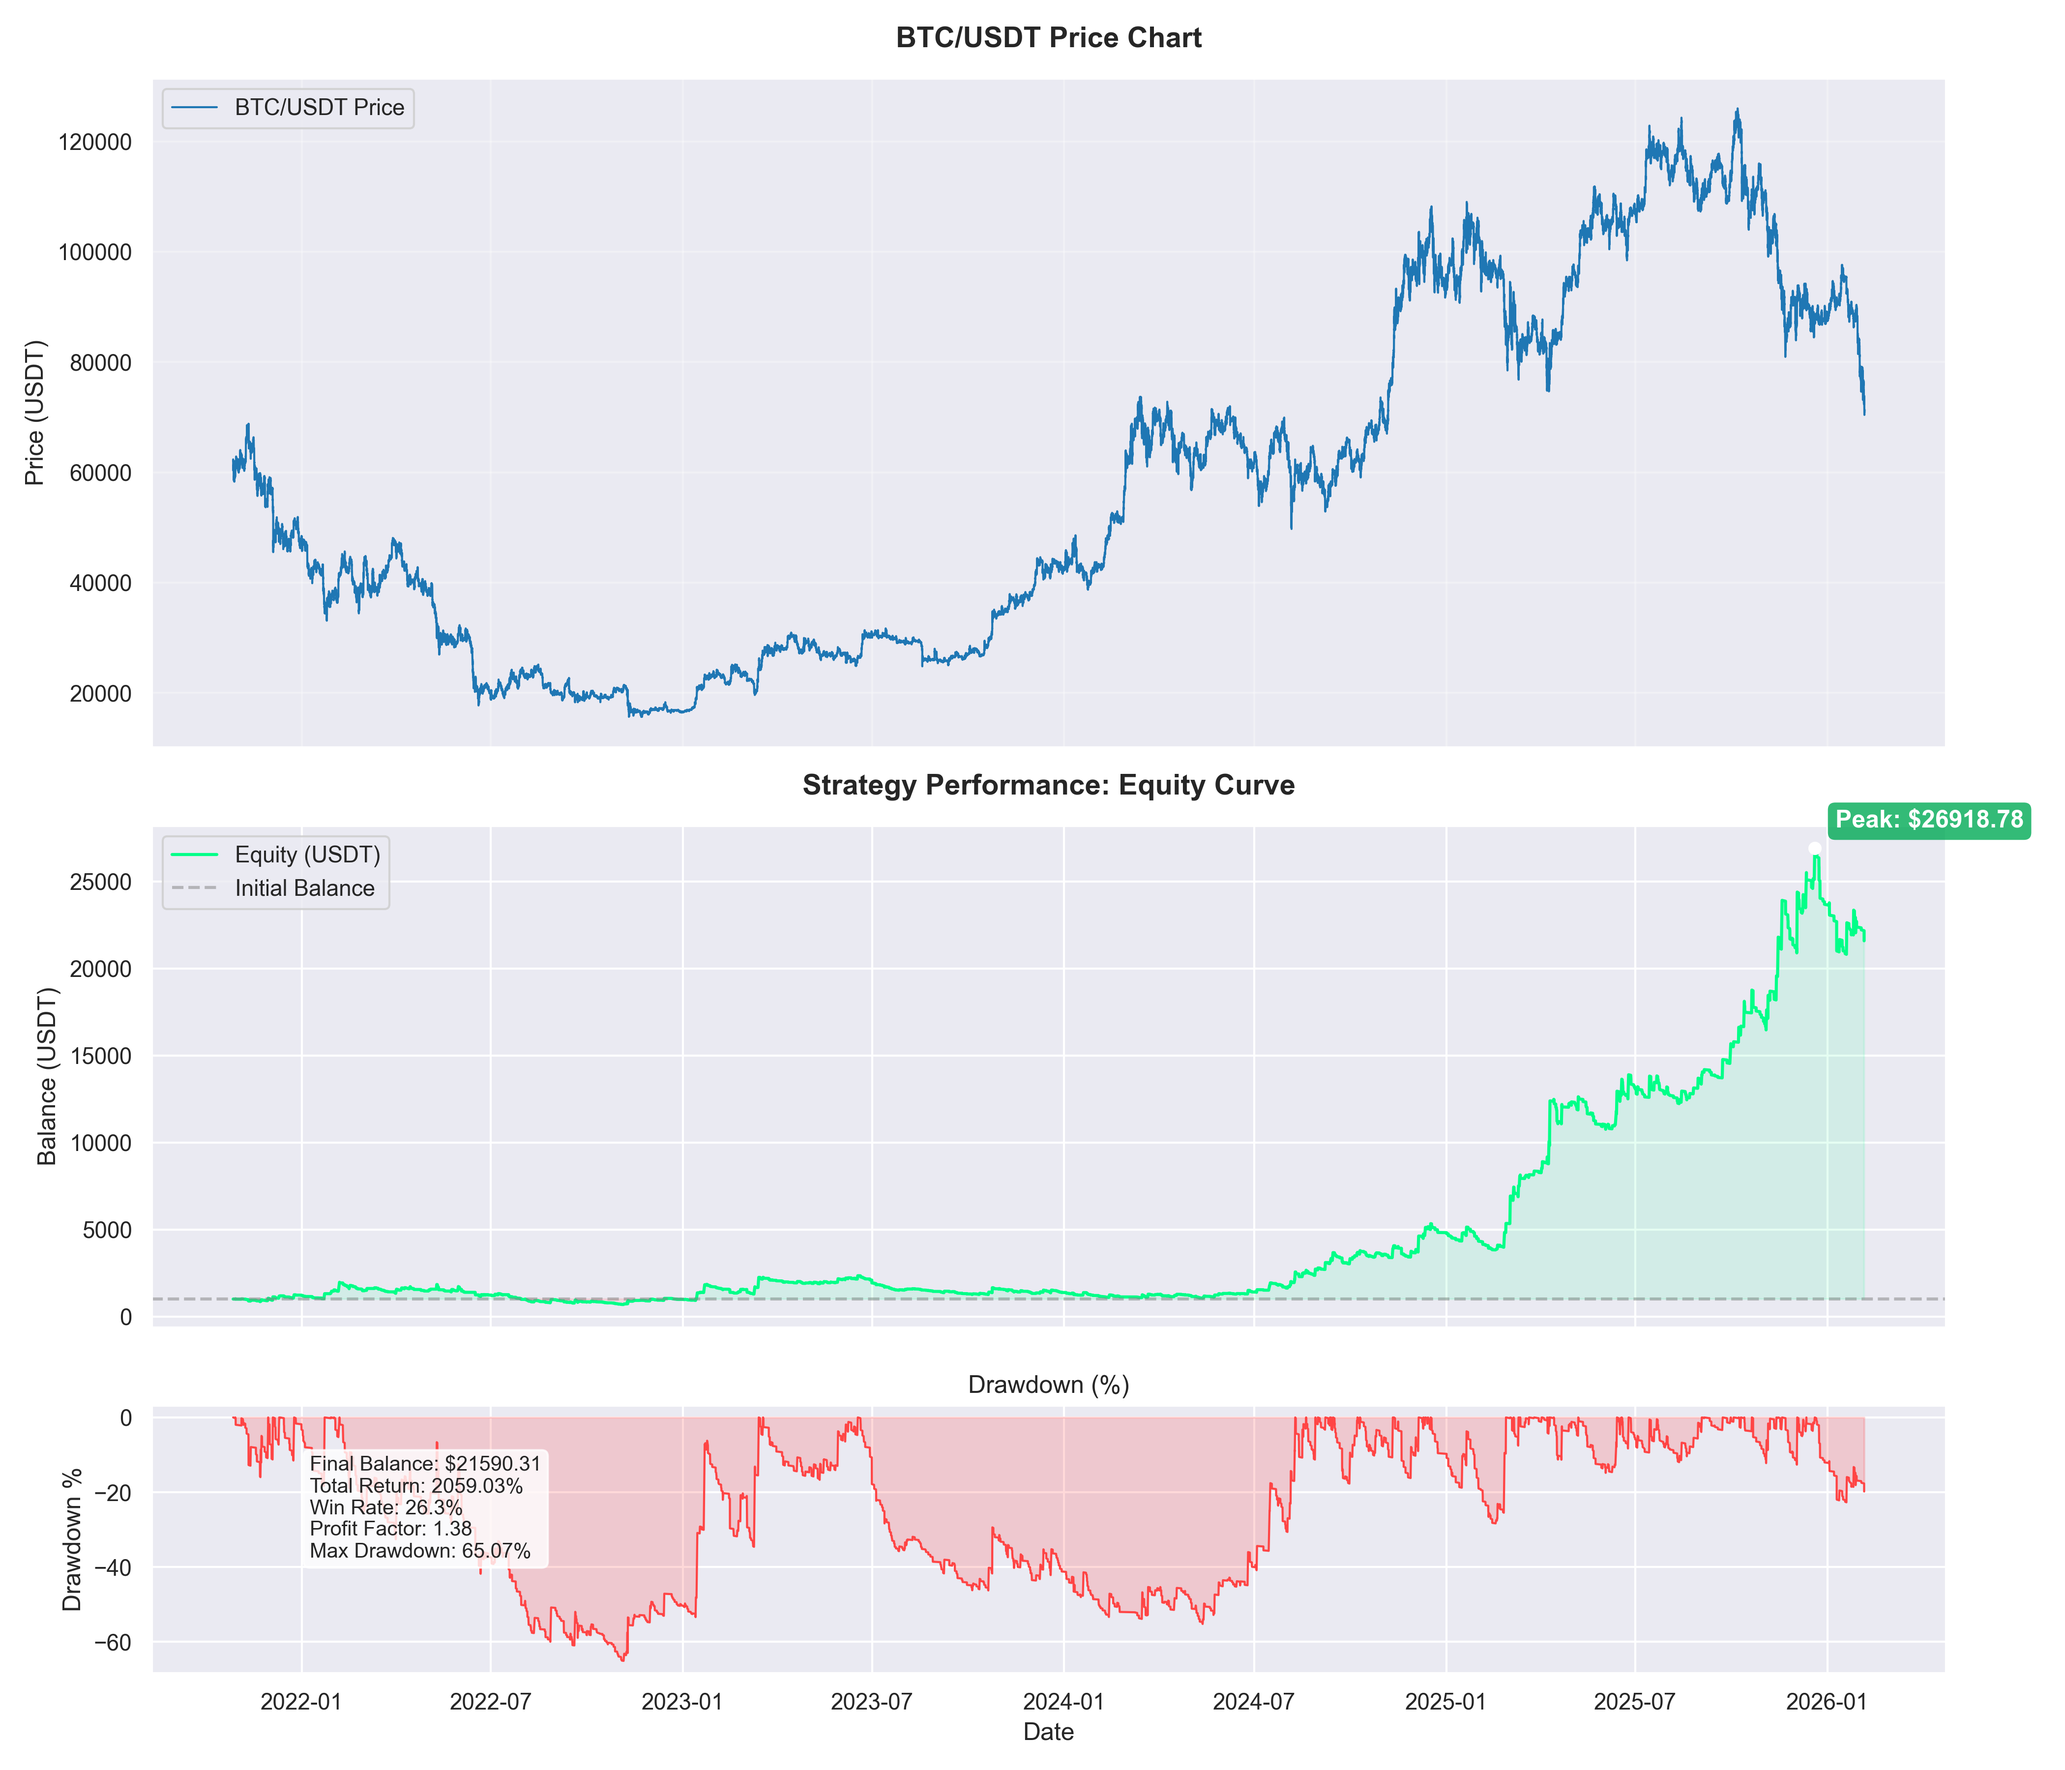
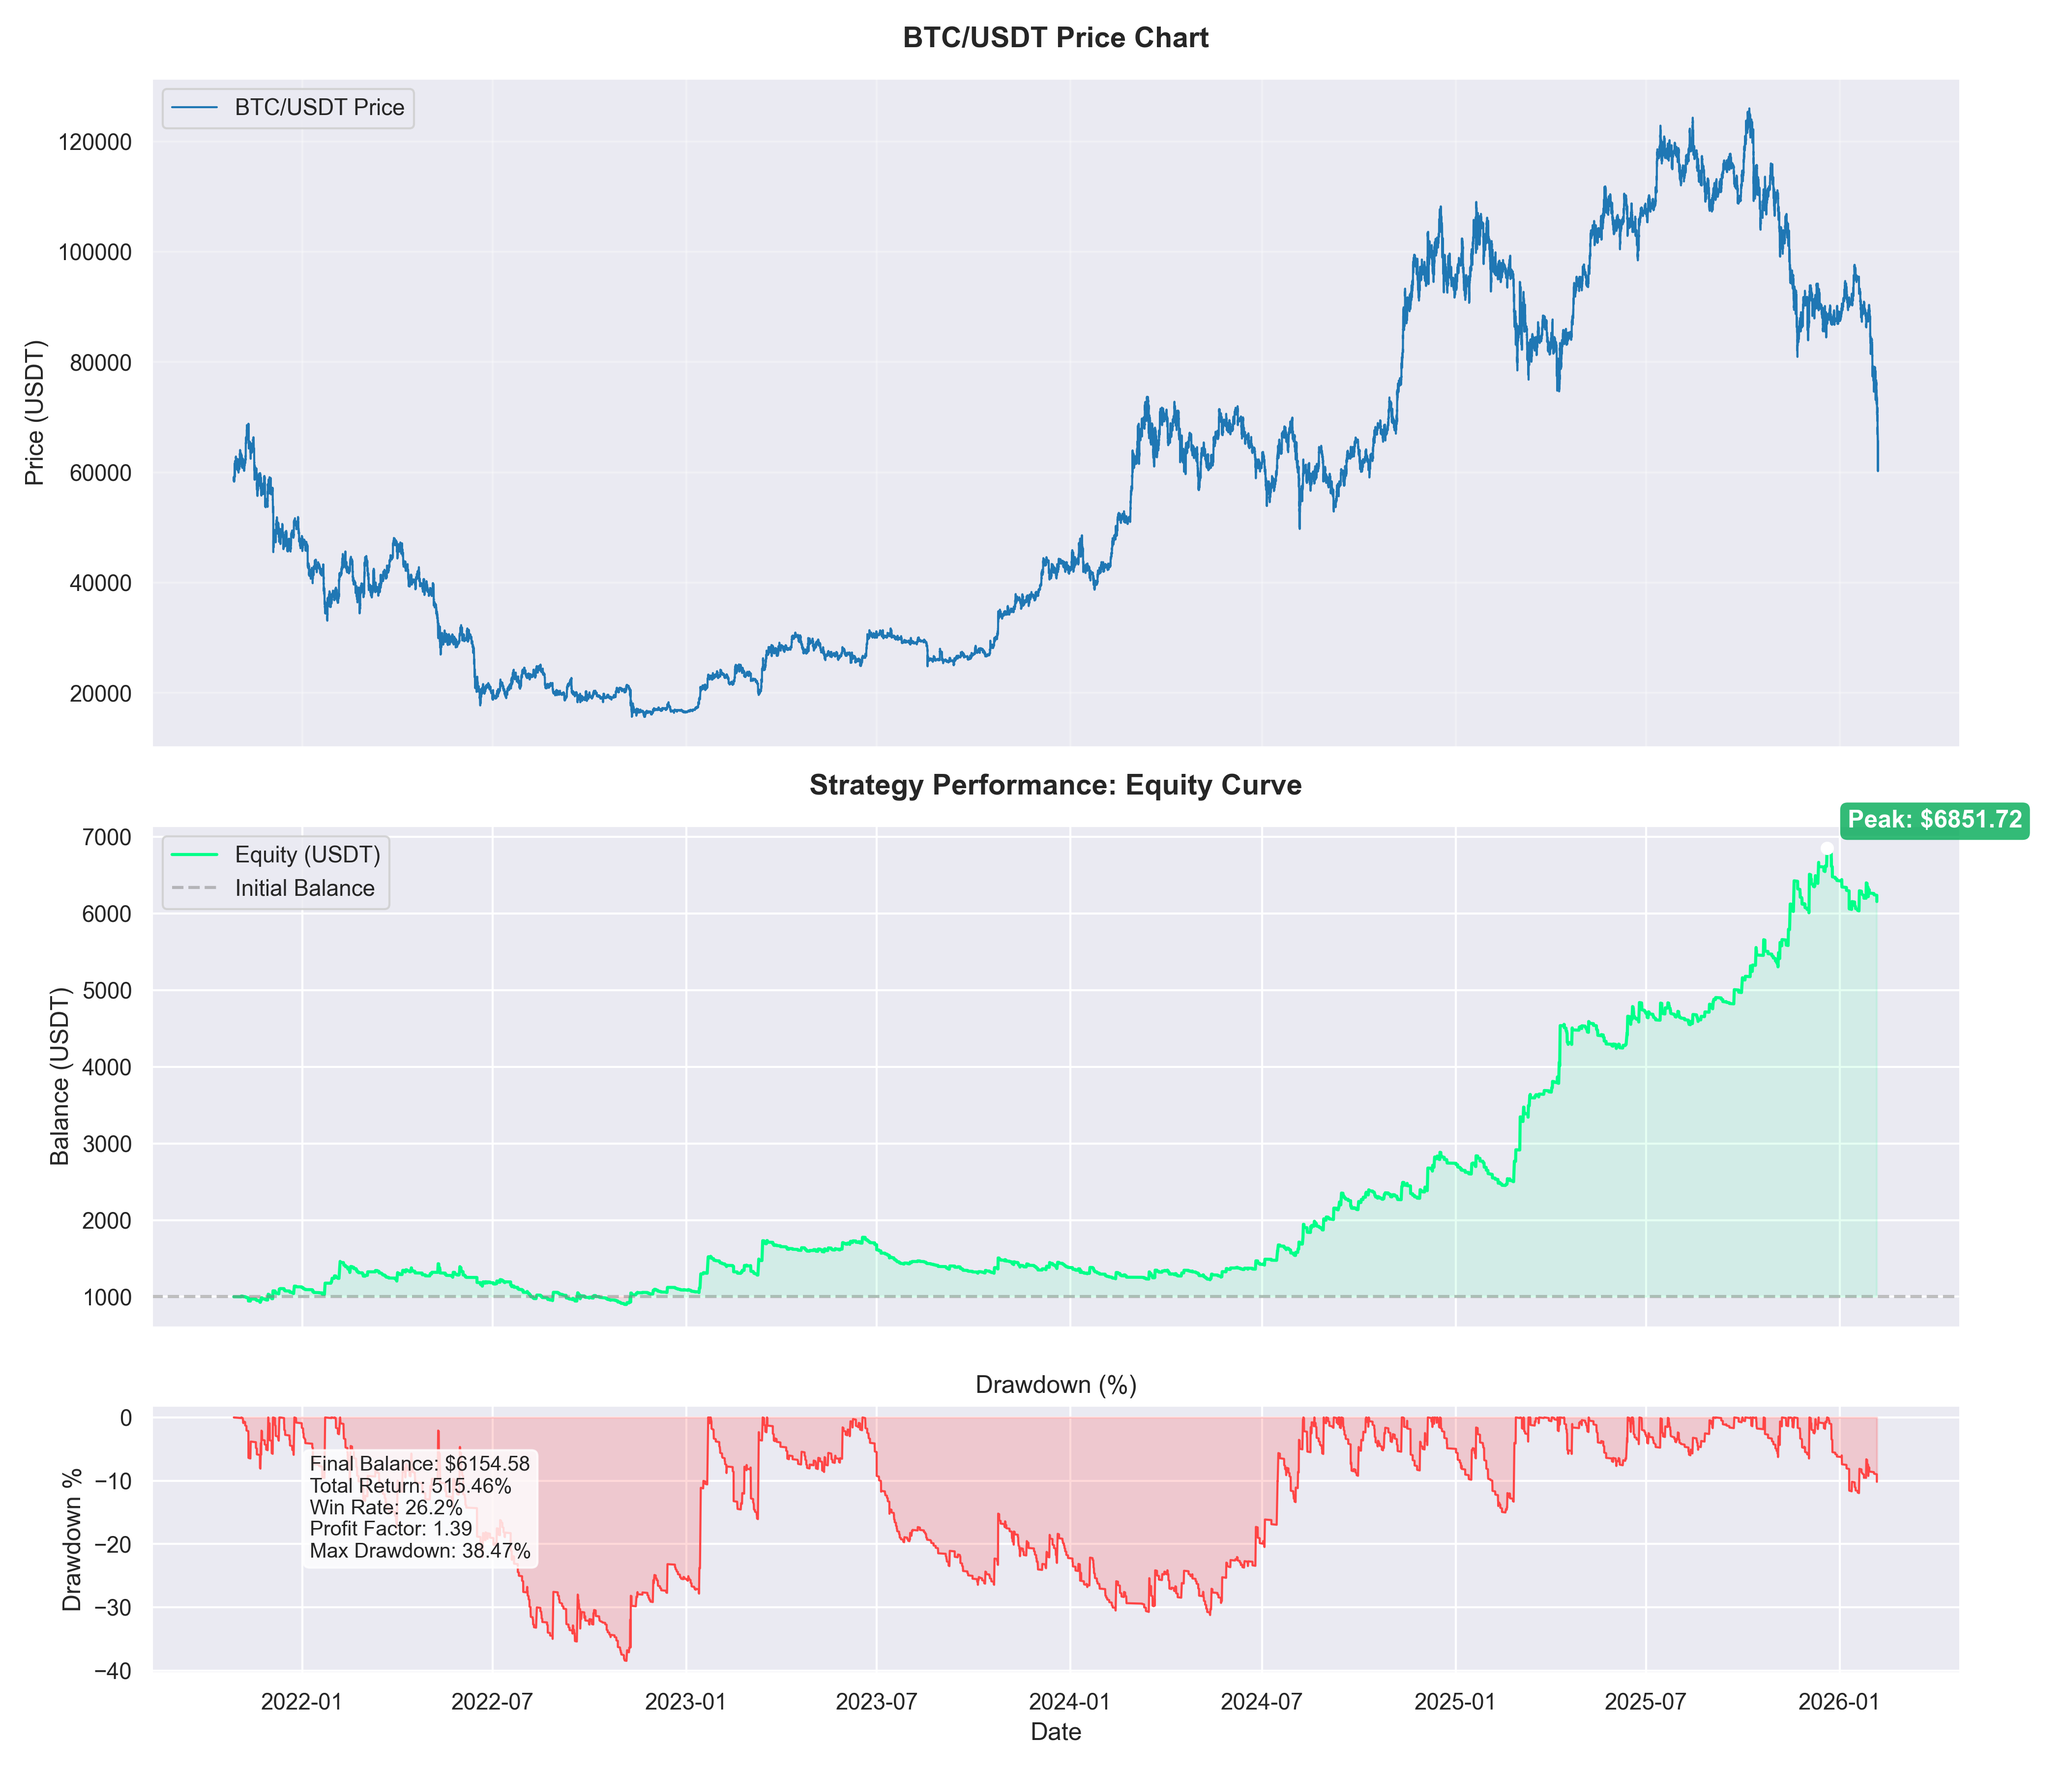
feat: Implement `Strategy` class, dynamic position sizing based on EMA slope, and an enhanced RSI filter with a long threshold, along with a new optimization script.

diff --git a/optimize/optimize_rsi_long_threshold.py b/optimize/optimize_rsi_long_threshold.py
@@ -1,0 +1,62 @@
+
+import numpy as np
+import pandas as pd
+from base_optimizer import BaseOptimizer
+from backtest import simulate
+from config import (
+    ATR_MULTIPLIER, 
+    ADX_THRESHOLD, RSI_OVERSOLD, RSI_OVERBOUGHT
+)
+
+def run_simulation(rsi_long_th, df_final):
+    """
+    Run simulation with a specific RSI Long Threshold.
+    """
+    # Use current best settings for other parameters
+    res, _ = simulate(df_final,
+                      rsi_long_threshold=rsi_long_th,
+                      rsi_overbought=RSI_OVERBOUGHT,
+                      rsi_oversold=RSI_OVERSOLD)
+    return {
+        'rsi_long_threshold': rsi_long_th,
+        'pnl_pct': res['pnl_pct'],
+        'win_rate': res['win_rate'],
+        'pf': res['profit_factor'],
+        'mdd': res['max_drawdown'],
+        'total_trades': res['total_trades']
+    }
+
+def run_optimization():
+    optimizer = BaseOptimizer("RSI Long Threshold Optimization")
+    
+    print(f"Strategy Config: OB={RSI_OVERBOUGHT}, OS={RSI_OVERSOLD}")
+    
+    if not optimizer.load_and_prepare_data():
+        return
+
+    # Define range for RSI Long Threshold (e.g. 30 to 55)
+    rsi_th_range = np.arange(30, 60, 1)
+    
+    tasks = [(th,) for th in rsi_th_range]
+            
+    results = optimizer.run_parallel(tasks, run_simulation)
+    
+    opt_df = optimizer.save_and_analyze(results, "optimization_results_rsi_long_threshold.csv")
+    
+    if opt_df is not None and not opt_df.empty:
+        # Recommend the best overall (Balance MDD and PnL)
+        valid_mdd = opt_df[opt_df['mdd'] < 20]
+        
+        if not valid_mdd.empty:
+            print("\n🌟 RECOMMENDED CONFIG (MDD < 20%):")
+            print("Sorted by PnL:")
+            print(valid_mdd.sort_values(by='pnl_pct', ascending=False).head(5).to_string(index=False))
+            
+            print("\nSorted by Profit Factor:")
+            print(valid_mdd.sort_values(by='pf', ascending=False).head(5).to_string(index=False))
+        else:
+            print("\n⚠ No configuration found with MDD < 20%. Best available:")
+            print(opt_df.sort_values(by='pnl_pct', ascending=False).head(5).to_string(index=False))
+
+if __name__ == "__main__":
+    run_optimization()

diff --git a/backtest.py b/backtest.py
@@ -10,7 +10,7 @@ from config import (
     SYMBOL, TIMEFRAME, SUPERTREND_LENGTH, SUPERTREND_FACTOR, EMA_LENGTH,
     POSITION_SIZE_PERCENT, LEVERAGE, ADX_LENGTH, ADX_THRESHOLD, 
     ATR_LENGTH, ATR_MULTIPLIER,
-    RSI_LENGTH, RSI_OVERBOUGHT, RSI_OVERSOLD,
+    RSI_LENGTH, RSI_OVERBOUGHT, RSI_OVERSOLD, RSI_LONG_THRESHOLD,
     VOLUME_MA_LENGTH
 )
 
@@ -19,7 +19,7 @@ WORKERS = 5
 SLEEP = 1.5
 GEN_CHART = True
 
-def simulate(df, use_ema_filter=True, st_length=SUPERTREND_LENGTH, st_factor=SUPERTREND_FACTOR, sl_multiplier=ATR_MULTIPLIER, adx_threshold=ADX_THRESHOLD, use_rsi_filter=True, rsi_overbought=RSI_OVERBOUGHT, rsi_oversold=RSI_OVERSOLD, use_volume_filter=True, volume_ma_length=VOLUME_MA_LENGTH, leverage=LEVERAGE, position_size_percent=POSITION_SIZE_PERCENT):
+def simulate(df, use_ema_filter=True, st_length=SUPERTREND_LENGTH, st_factor=SUPERTREND_FACTOR, sl_multiplier=ATR_MULTIPLIER, adx_threshold=ADX_THRESHOLD, use_rsi_filter=True, rsi_overbought=RSI_OVERBOUGHT, rsi_oversold=RSI_OVERSOLD, rsi_long_threshold=RSI_LONG_THRESHOLD, use_volume_filter=True, volume_ma_length=VOLUME_MA_LENGTH, leverage=LEVERAGE, position_size_percent=POSITION_SIZE_PERCENT):
     initial_balance = 1000
     balance = initial_balance
     position_amt = 0 
@@ -133,7 +133,7 @@ def simulate(df, use_ema_filter=True, st_length=SUPERTREND_LENGTH, st_factor=SUP
         
         # New: RSI Filter
         rsi_val = current_candle['RSI']
-        rsi_long_ok = rsi_val < rsi_overbought if use_rsi_filter else True
+        rsi_long_ok = (rsi_val < rsi_overbought and rsi_val > rsi_long_threshold) if use_rsi_filter else True
         rsi_short_ok = rsi_val > rsi_oversold if use_rsi_filter else True
         
         # New: Volume MA Filter

diff --git a/bot/strategy.py b/bot/strategy.py
@@ -5,7 +5,7 @@ from config import (
     SUPERTREND_LENGTH, SUPERTREND_FACTOR, EMA_LENGTH, TIMEFRAME, 
     ADX_LENGTH, ADX_THRESHOLD, ATR_LENGTH, ATR_MULTIPLIER, 
     MAX_TRADES_PER_HOUR, POSITION_SIZE_PERCENT, LEVERAGE,
-    RSI_LENGTH, RSI_OVERBOUGHT, RSI_OVERSOLD,
+    RSI_LENGTH, RSI_OVERBOUGHT, RSI_OVERSOLD, RSI_LONG_THRESHOLD,
     VOLUME_MA_LENGTH
 )
 from .data_processor import DataProcessor
@@ -145,7 +145,7 @@ class Strategy:
         is_trending = adx_val > ADX_THRESHOLD
         
         # Determine RSI Conditions
-        rsi_long_ok = rsi_val < RSI_OVERBOUGHT
+        rsi_long_ok = RSI_LONG_THRESHOLD < rsi_val < RSI_OVERBOUGHT
         rsi_short_ok = rsi_val > RSI_OVERSOLD
         
         # Determine Volume Condition
@@ -179,7 +179,7 @@ class Strategy:
             else:
                 reasons = []
                 if not is_trending: reasons.append("ADX low")
-                if not rsi_long_ok: reasons.append("RSI overbought")
+                if not rsi_long_ok: reasons.append(f"RSI invalid (Req: {RSI_LONG_THRESHOLD}-{RSI_OVERBOUGHT})")
                 if not vol_ok: reasons.append("Volume low")
                 self.logger.info(f"LONG signal detected, but {', '.join(reasons)}. (ADX: {adx_val:.2f}, RSI: {rsi_val:.2f}, Vol: {current_volume:.0f}). Skipping.")
         elif current_trend == -1 and previous_trend == 1 and is_downtrend_short:

diff --git a/config.py b/config.py
@@ -29,7 +29,7 @@ SUPERTREND_FACTOR = 1.45       # Multiplier for Band width
 EMA_LENGTH = 102              # EMA Baseline (Price > EMA = Bullish)
 
 # Risk Management
-LEVERAGE = 20                  # Leverage multiplier
+LEVERAGE = 10                  # Leverage multiplier
 POSITION_SIZE_PERCENT = 0.2     # 100% of Equity per Trade
 
 # Safety
@@ -48,6 +48,7 @@ ATR_MULTIPLIER = 0.7         # Tight SL (0.8x ATR) to cut losses fast
 RSI_LENGTH = 14
 RSI_OVERBOUGHT = 64           # Long limit
 RSI_OVERSOLD = 36             # Short limit
+RSI_LONG_THRESHOLD = 53       # Min RSI for Long (Trend Filter)
 
 # Volume
 # Confirm breakout validity
